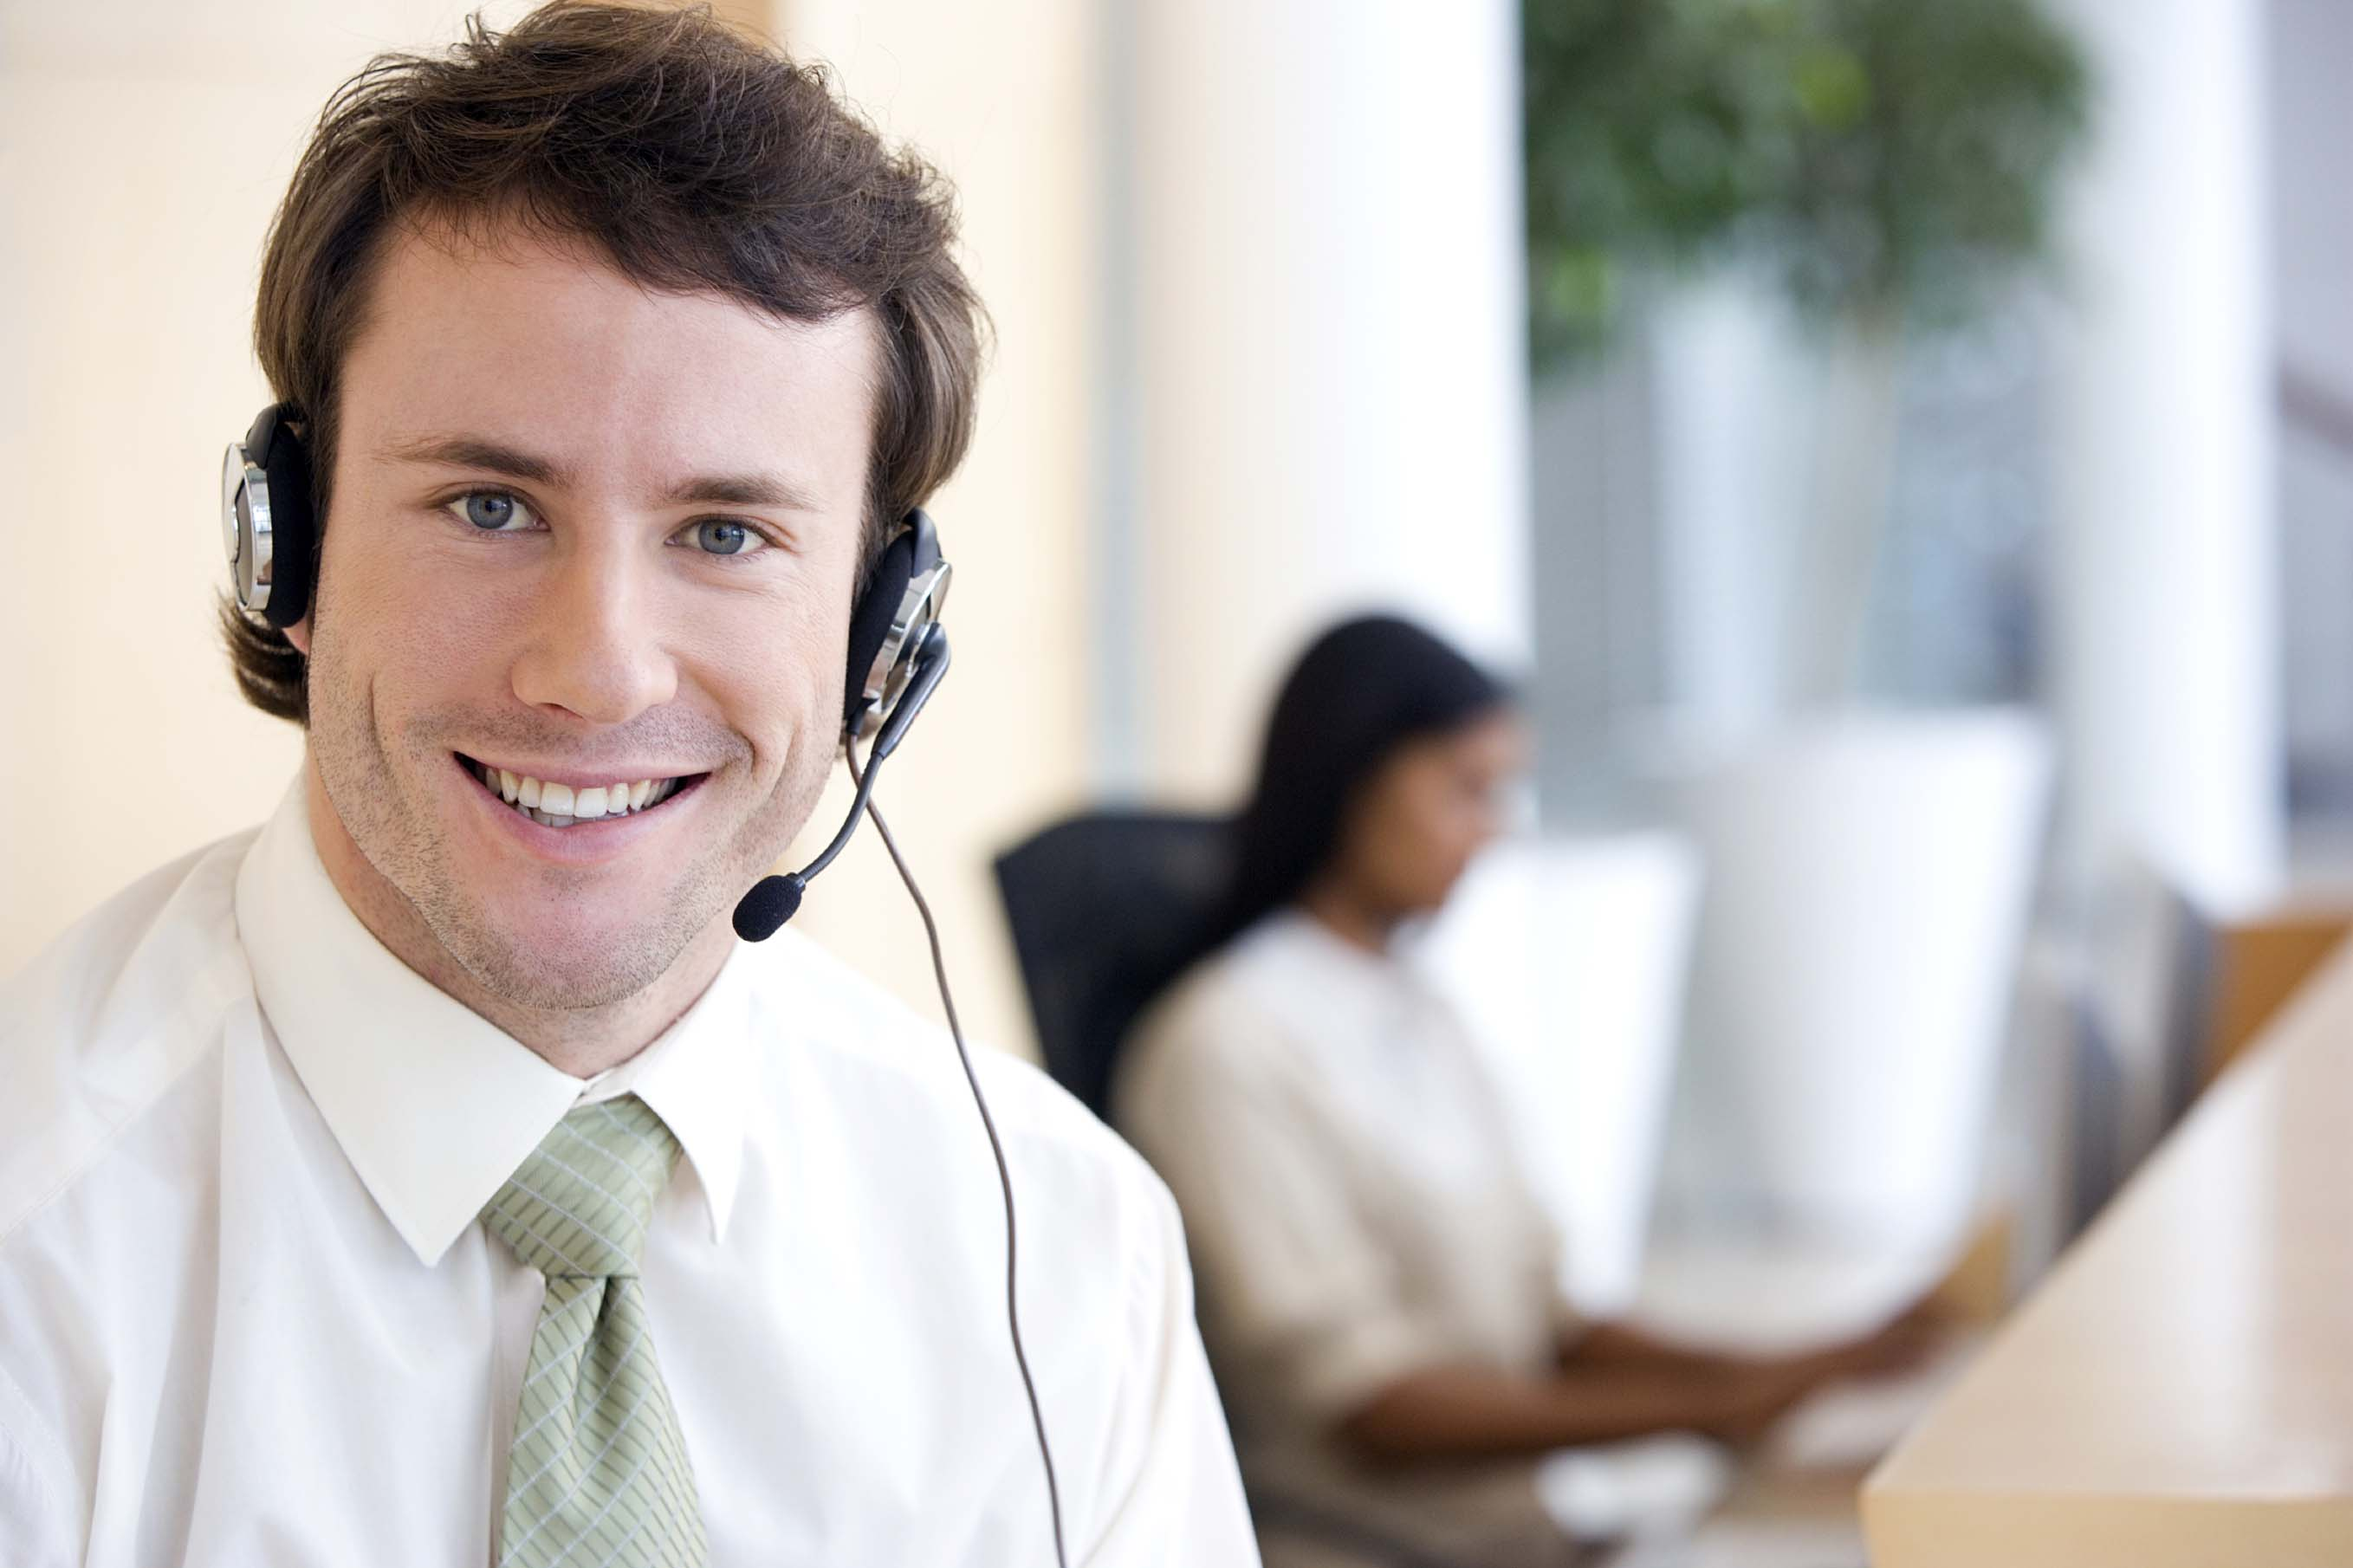
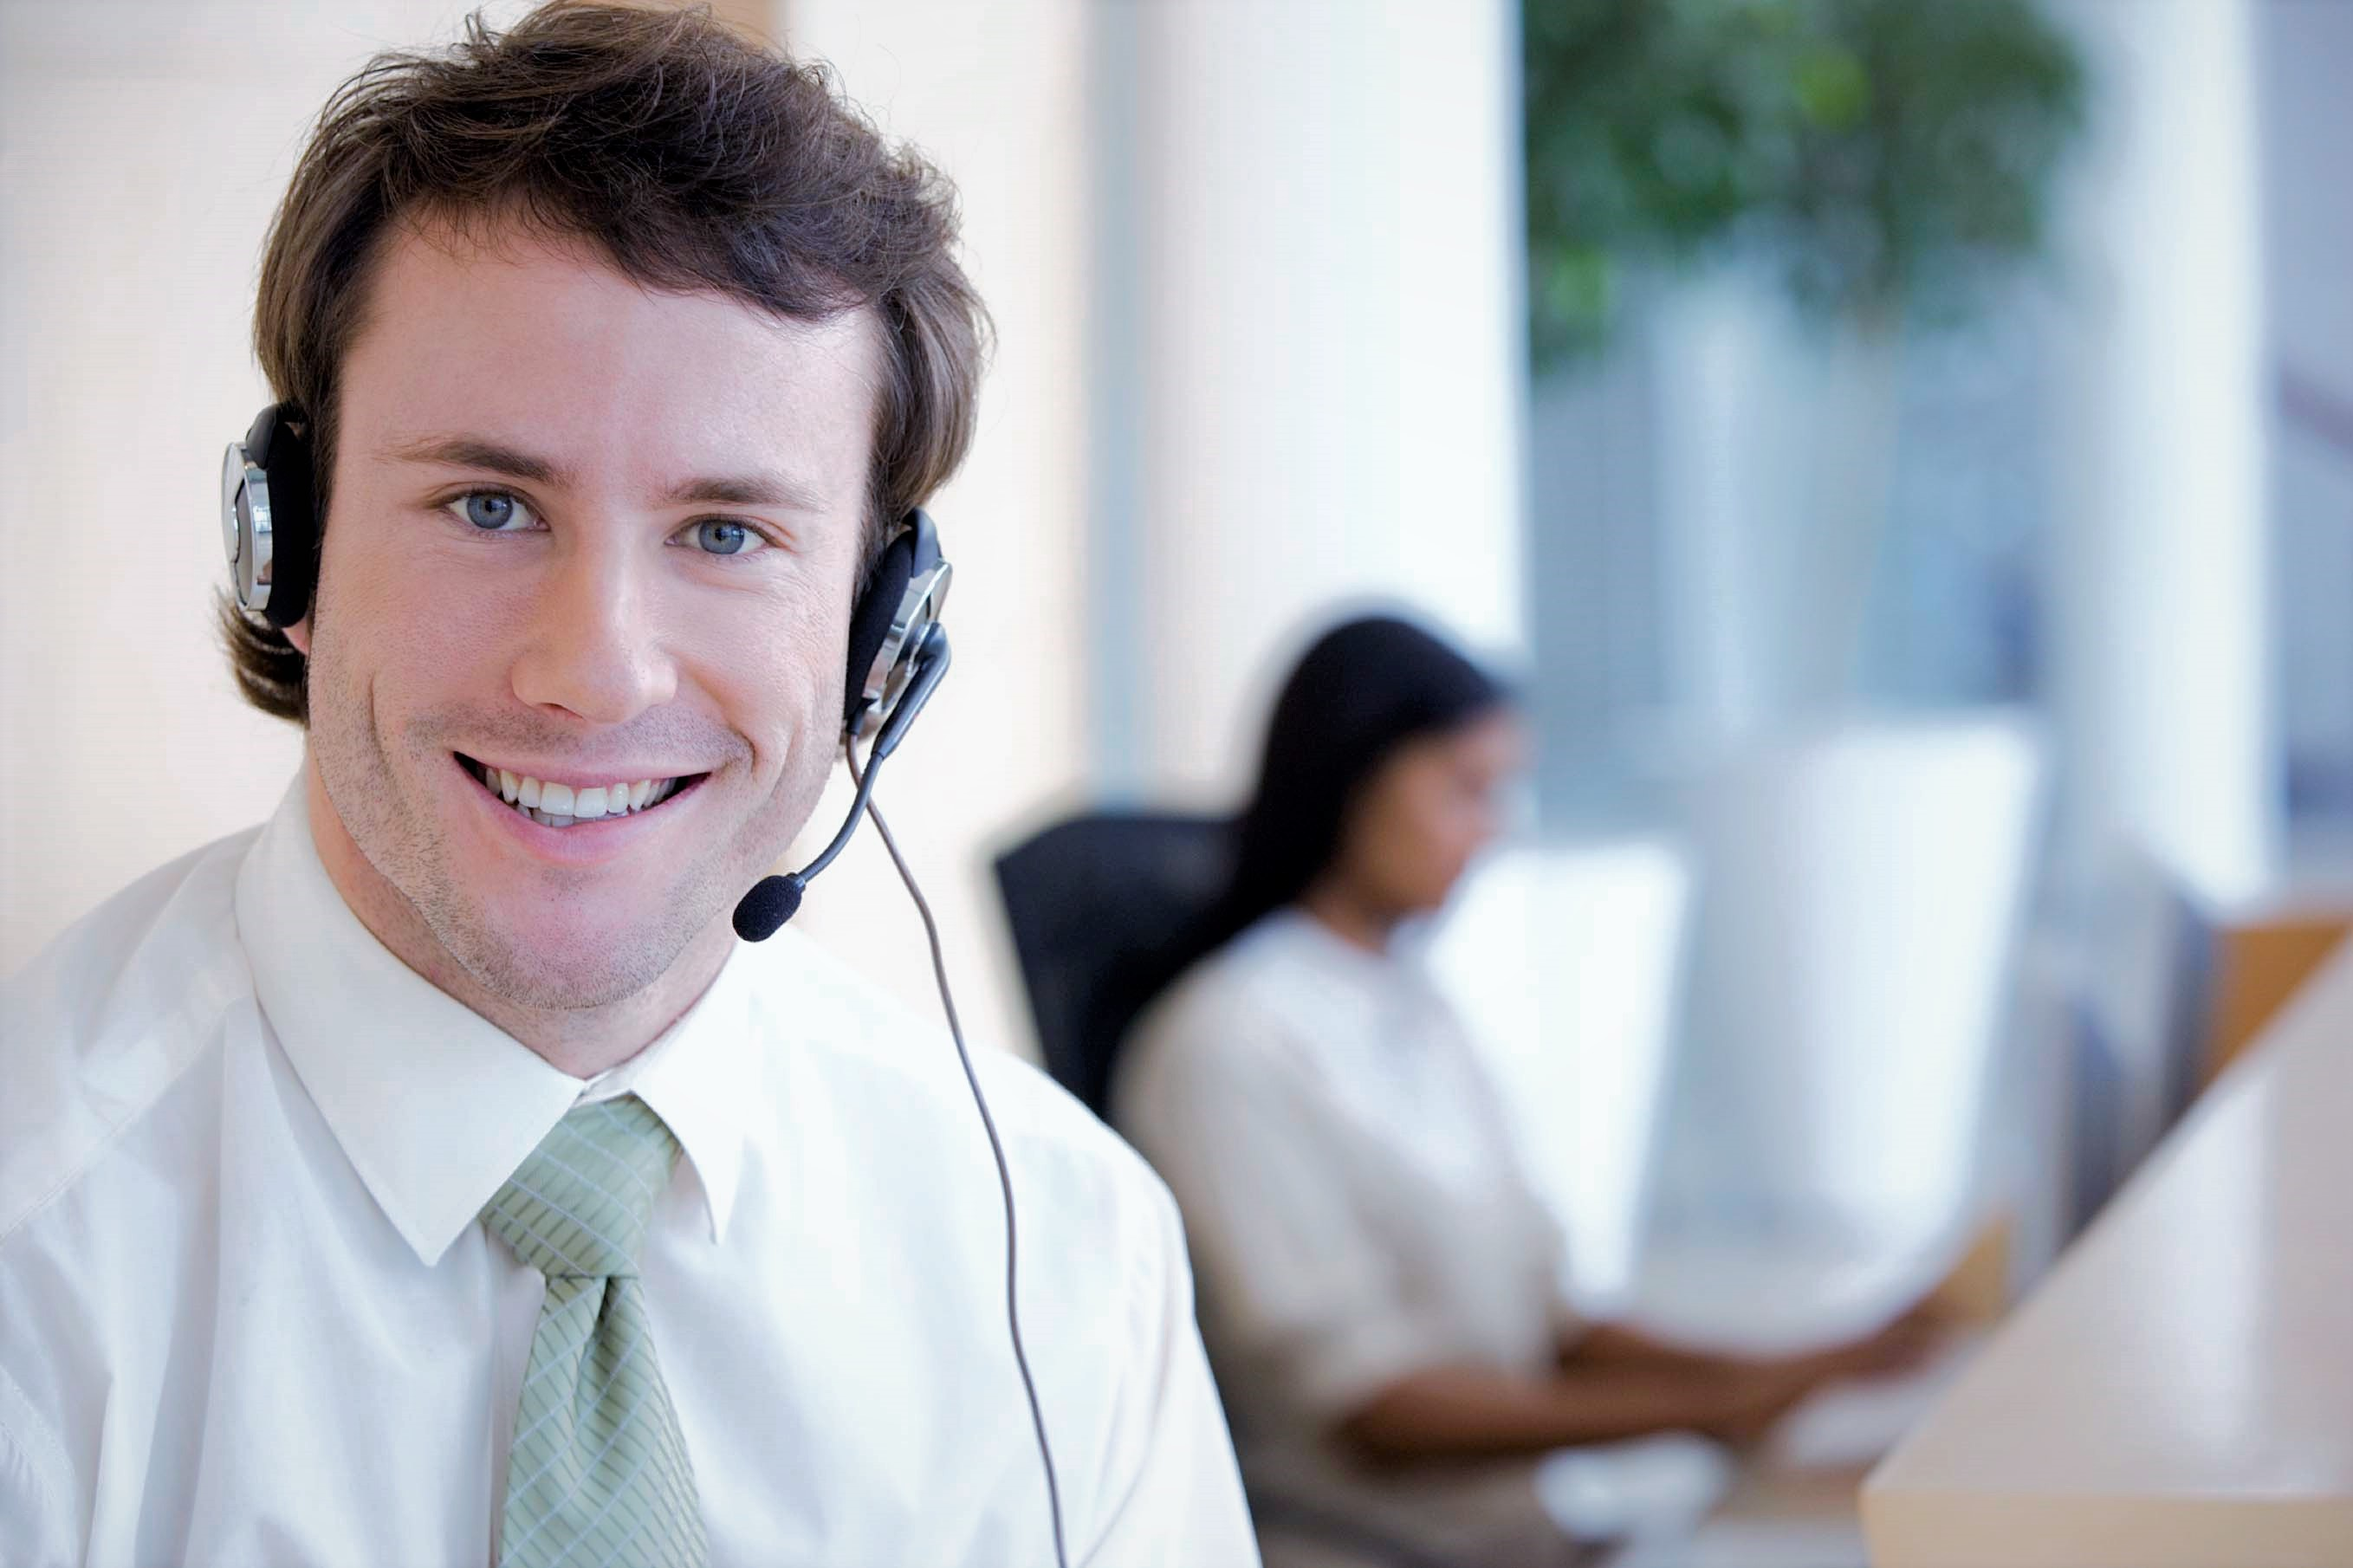
1. jumbotron background image - added filter 2. fixed padding in contact section

diff --git a/index.html b/index.html
@@ -85,7 +85,7 @@
           <div class="col-lg-6">
             <div class="row">
               <div class="col-lg-12">
-                <h4>Zapraszamy do kontaktu z nami</h4>
+                <h4>Zapraszamy do kontaktu</h4>
                 <p>Z chęcią odpowiem na (prawie) każdego maila.</p>
               </div>
             </div>

diff --git a/style.css b/style.css
@@ -138,7 +138,7 @@ img.img-thumbnail {border: 0; padding: 0}
 #kontakt-container {
   position: relative;
   padding-top: 68px;
-  padding-bottom: 35px;
+  padding-bottom: 55px;
 }
 
 p.marginbot {margin-bottom: 5px}
